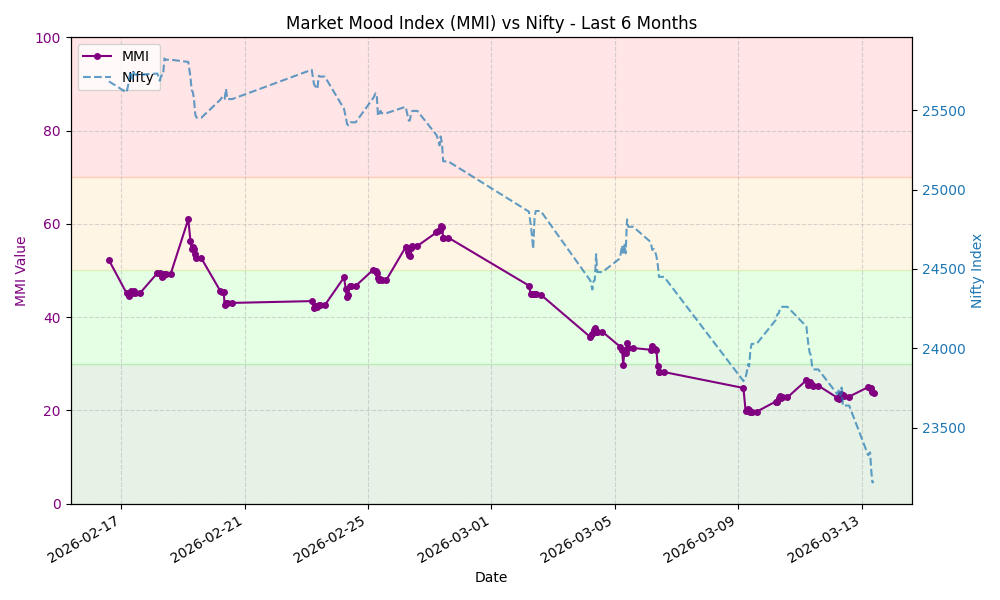
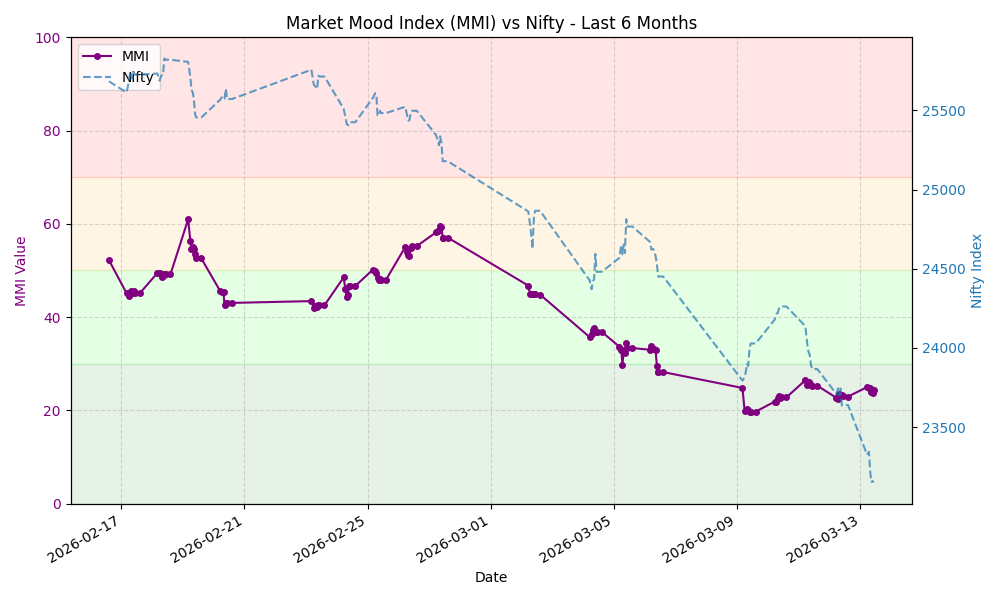
Update MMI data and chart

diff --git a/README.md b/README.md
@@ -7,8 +7,8 @@ This repository automatically fetches the MMI value, stores the history, and gen
 
 ## Latest MMI Value
 
-**23.67** - **Extreme Fear**
-<small>Last Updated: 2026-03-13 09:27 UTC</small>
+**24.34** - **Extreme Fear**
+<small>Last Updated: 2026-03-13 10:21 UTC</small>
 
 ## MMI Trend (Last 30 Days)
 
